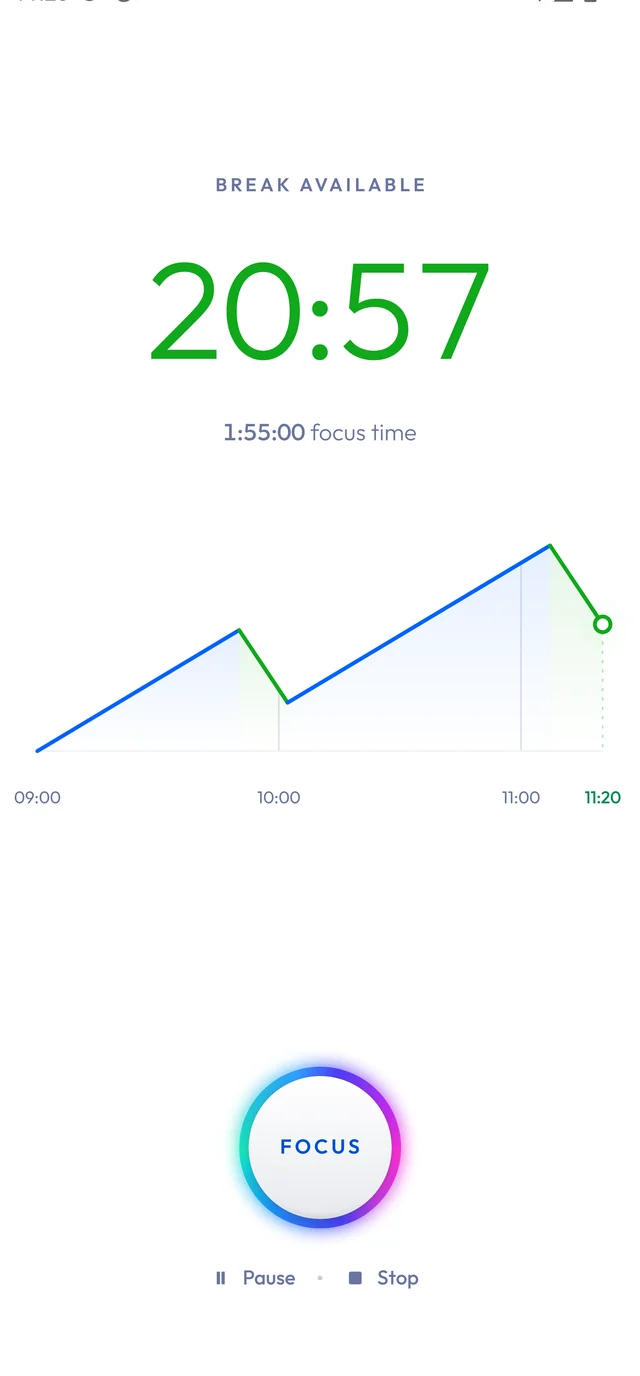
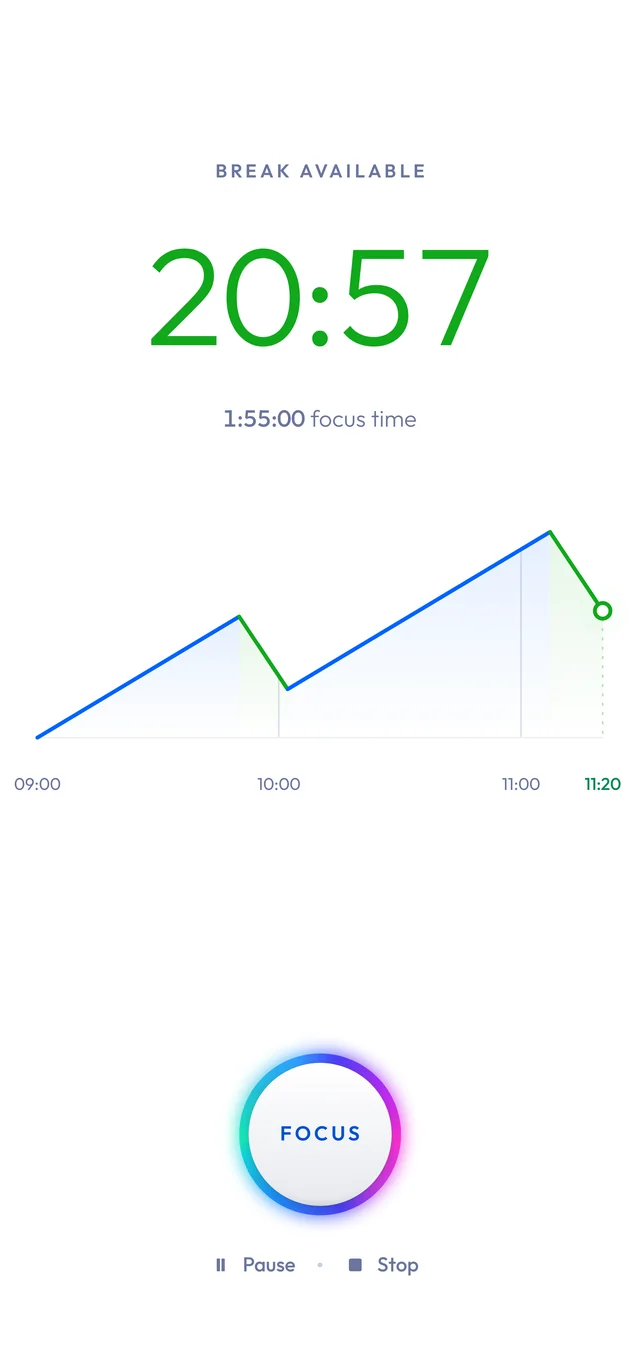
Screenshots start below the status bar

diff --git a/index.html b/index.html
@@ -179,7 +179,7 @@ footer nav { gap: 24px; font-size: 15px; flex-wrap: wrap; }
     </div>
     <div class="art">
       <div class="halo"></div>
-      <div class="phone"><img src="img/focus.webp" width="640" height="1376" alt="Magic Clock while focusing: 34 minutes of break available, 1 hour 55 minutes of focus time, and a graph of the session climbing."></div>
+      <div class="phone"><img src="img/focus.webp" width="640" height="1363" alt="Magic Clock while focusing: 34 minutes of break available, 1 hour 55 minutes of focus time, and a graph of the session climbing."></div>
     </div>
   </div>
 </section>
@@ -204,15 +204,15 @@ footer nav { gap: 24px; font-size: 15px; flex-wrap: wrap; }
     </div>
     <div class="steps">
       <div class="step">
-        <div class="phone sm"><img src="img/focus.webp" width="640" height="1376" loading="lazy" alt="Focusing: the break balance climbs in blue."></div>
+        <div class="phone sm"><img src="img/focus.webp" width="640" height="1363" loading="lazy" alt="Focusing: the break balance climbs in blue."></div>
         <div><h3><i style="background:var(--focus)"></i>Focus earns break</h3><p>Every twenty-five minutes of focus earns ten minutes of break, based on Pomodoro.</p></div>
       </div>
       <div class="step">
-        <div class="phone sm"><img src="img/break.webp" width="640" height="1376" loading="lazy" alt="On a break: 20 minutes left, the line falls in green."></div>
+        <div class="phone sm"><img src="img/break.webp" width="640" height="1363" loading="lazy" alt="On a break: 20 minutes left, the line falls in green."></div>
         <div><h3><i style="background:var(--break)"></i>Break spends it</h3><p>Scroll Instagram, watch YouTube, check Reddit, play a game, grab a coffee. It’s yours.</p></div>
       </div>
       <div class="step">
-        <div class="phone sm"><img src="img/over.webp" width="640" height="1376" loading="lazy" alt="Borrowed: almost 10 minutes over, the line dips below zero in red."></div>
+        <div class="phone sm"><img src="img/over.webp" width="640" height="1363" loading="lazy" alt="Borrowed: almost 10 minutes over, the line dips below zero in red."></div>
         <div><h3><i style="background:var(--owe)"></i>Overspend, work it back</h3><p>Use as much of your break as you like. If you overspend, you simply work it back.</p></div>
       </div>
     </div>
@@ -233,7 +233,7 @@ footer nav { gap: 24px; font-size: 15px; flex-wrap: wrap; }
           <h3>And eventually, you notice it worked.</h3>
           <p>You spend a sunny Sunday studying for an exam without complaining. You do your tax return without hesitation. You start enjoying exercise. You might still scroll — but now you do it on purpose instead of falling into it.</p>
         </div>
-        <div class="phone"><img src="img/miles.webp" width="640" height="1376" loading="lazy" alt="Milestones: 42 of 90 days in a row with 4 or more hours of focus."></div>
+        <div class="phone"><img src="img/miles.webp" width="640" height="1363" loading="lazy" alt="Milestones: 42 of 90 days in a row with 4 or more hours of focus."></div>
       </div>
     </div>
   </div>
@@ -268,7 +268,7 @@ footer nav { gap: 24px; font-size: 15px; flex-wrap: wrap; }
     </div>
     <div class="art">
       <div class="halo" style="background:radial-gradient(closest-side, rgba(182,43,240,.16), rgba(182,43,240,0))"></div>
-      <div class="phone"><img src="img/break.webp" width="640" height="1376" loading="lazy" alt="Magic Clock on a break."></div>
+      <div class="phone"><img src="img/break.webp" width="640" height="1363" loading="lazy" alt="Magic Clock on a break."></div>
     </div>
   </div>
 </section>
